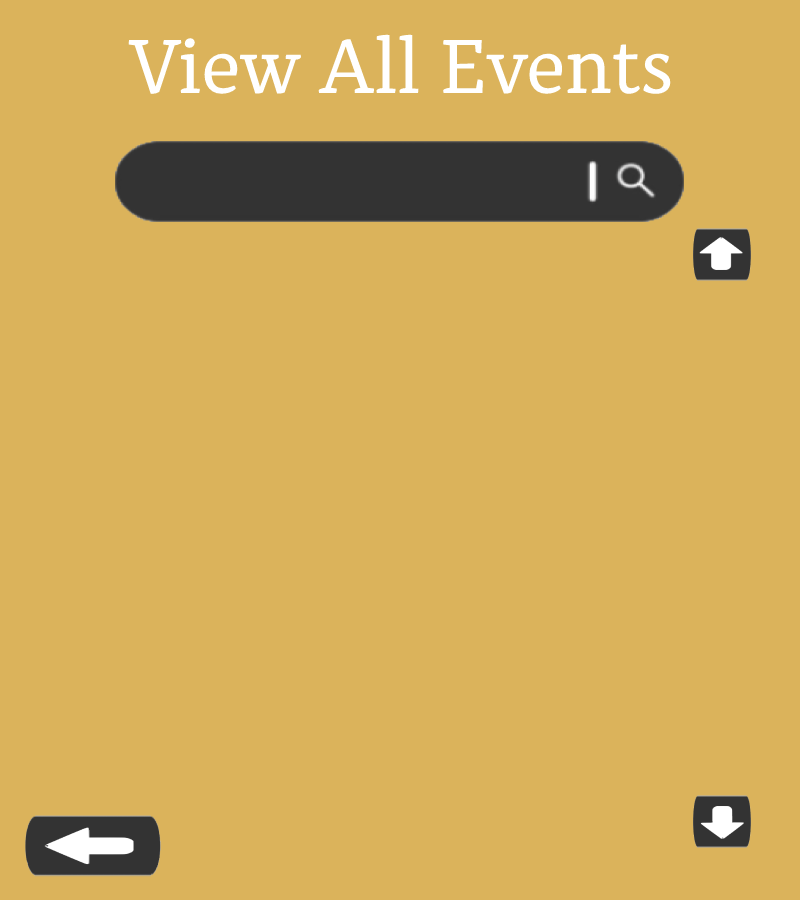
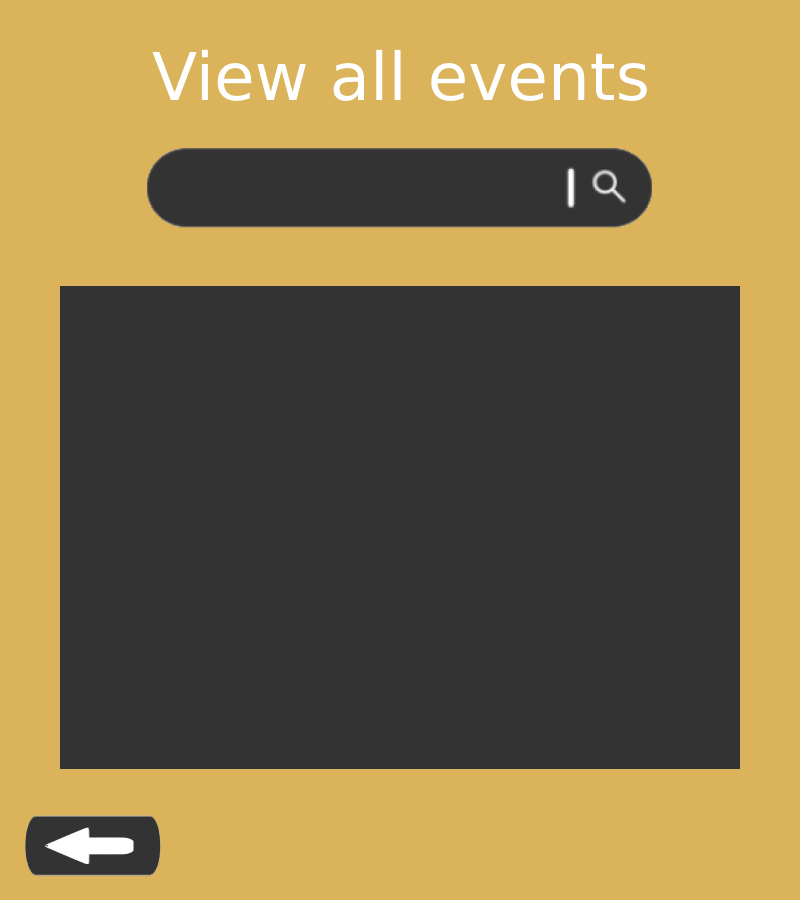
Modify view all events page

diff --git a/historyProject/historyProject/Front-End/CPP Files/startProgram.cpp b/historyProject/historyProject/Front-End/CPP Files/startProgram.cpp
@@ -1,6 +1,7 @@
 #include "../header Files/startProgram.h"
 #include "../../Back-End/header Files/registerForm.h"
 #include "../../Back-End/header Files/loginForm.h"
+#include "../../Back-End/header Files/viewAllEventsPage.h"
 
 void switchPages(sf::RenderWindow& window, sf::Event& userEvent, sf::Texture& currentPageTexture, CURRENT_PAGE& pageFlag,
     SELECTED_TEXT_BOX& textBoxFlag, NODE* head, std::fstream& userInfo, std::fstream& eventInfo)
@@ -120,6 +121,8 @@ void switchPages(sf::RenderWindow& window, sf::Event& userEvent, sf::Texture& cu
             pageFlag.timelineMenu = false;
             pageFlag.viewAllEvents = true;
             pageFlag.addAnEventMenu = false;
+
+            showEvent(eventInfo, head, textBoxProperties::events, textBoxProperties::eventTitle);
         }
         else if ((userEvent.mouseButton.x >= 25 && userEvent.mouseButton.x <= 160) &&
             (userEvent.mouseButton.y >= 815 && userEvent.mouseButton.y <= 870) && pageFlag.viewAllEvents == true)
@@ -132,6 +135,10 @@ void switchPages(sf::RenderWindow& window, sf::Event& userEvent, sf::Texture& cu
             pageFlag.timelineMenu = true;
             pageFlag.viewAllEvents = false;
             pageFlag.addAnEventMenu = false;
+
+            textBoxProperties::enteredTextForSearchBox = "";
+            textBoxProperties::search.setString(textBoxProperties::enteredTextForSearchBox);
+            
         }
         else if ((userEvent.mouseButton.x >= 20 && userEvent.mouseButton.x <= 172) &&
             (userEvent.mouseButton.y >= 800 && userEvent.mouseButton.y <= 880) && pageFlag.timelineMenu == true)
@@ -160,8 +167,8 @@ void switchPages(sf::RenderWindow& window, sf::Event& userEvent, sf::Texture& cu
             pageFlag.homeMenu = false;
             pageFlag.viewAllEvents = false;
         }
-        else if (pageFlag.viewAllEvents == true && (userEvent.mouseButton.x >= 115 && userEvent.mouseButton.x <= 590) &&
-        (userEvent.mouseButton.y >= 140 && userEvent.mouseButton.y <= 220))
+        else if (pageFlag.viewAllEvents == true && (userEvent.mouseButton.x >= 150 && userEvent.mouseButton.x <= 570) &&
+        (userEvent.mouseButton.y >= 150 && userEvent.mouseButton.y <= 230))
         {
             textBoxFlag.titleTextBox = false;
             textBoxFlag.dateTextBox = false;
@@ -169,7 +176,7 @@ void switchPages(sf::RenderWindow& window, sf::Event& userEvent, sf::Texture& cu
             textBoxFlag.username = false;
             textBoxFlag.password = false;
             textBoxFlag.search = true;
-            textBoxProperties::search.setPosition(150, 160);
+            textBoxProperties::search.setPosition(170, 170);
 
         }
         else if (pageFlag.addAnEventMenu == true && (userEvent.mouseButton.x >= 120 && userEvent.mouseButton.x <= 690) &&
@@ -402,6 +409,10 @@ void startProgram(NODE* head)
     SELECTED_TEXT_BOX textBoxFlag;
     std::fstream userInfo;
     std::fstream eventInfo;
+    size_t setCounter = 0, posY = 170;
+    sf::Text item1;
+    sf::Text item2;
+    sf::Text item3;
 
     sf::RenderWindow window(sf::VideoMode(800, 900), "Historya", sf::Style::Close);
     window.setFramerateLimit(30);
@@ -414,6 +425,7 @@ void startProgram(NODE* head)
 
     sf::Font font;
     font.loadFromFile("images and fonts/alkesregular.ttf");
+
 
     textBoxProperties::titleBox.setFont(font);
     textBoxProperties::dateBox.setFont(font);
@@ -445,7 +457,10 @@ void startProgram(NODE* head)
             selectTextBox(window, userEvent, textBoxFlag);
         }
 
+
         window.clear();
+
+
 
         window.draw(*currentPageSprite);
         window.draw(textBoxProperties::titleBox);
@@ -454,6 +469,25 @@ void startProgram(NODE* head)
         window.draw(textBoxProperties::username);
         window.draw(textBoxProperties::password);
         window.draw(textBoxProperties::search);
+
+        if (pageFlag.viewAllEvents)
+        {
+            for (size_t i = setCounter + 1; i < setCounter + 5; i++)
+            {
+                textBoxProperties::events[i].setFont(font);
+                textBoxProperties::events[i].setCharacterSize(30);
+                textBoxProperties::events[i].setFillColor(sf::Color::White);
+                textBoxProperties::events[i].setPosition(115, posY * (i + 1));
+            }
+
+            item1 = textBoxProperties::events[setCounter + 1];
+            item2 = textBoxProperties::events[setCounter + 2];
+            item3 = textBoxProperties::events[setCounter + 3];
+
+            window.draw(item1);
+            window.draw(item2);
+            window.draw(item3);
+        }
 
         window.display();
     }

diff --git a/historyProject/historyProject/Back-End/CPP Files/viewAllEventsPage.cpp b/historyProject/historyProject/Back-End/CPP Files/viewAllEventsPage.cpp
@@ -1,0 +1,90 @@
+#include "../Header Files/viewAllEventsPage.h"
+#include "../Header Files/timelineMode.h"
+#include "../../Front-End/Header Files/startProgram.h"
+
+void writeDataToNode(NODE*& head, std::string& title, std::string& date, std::string& description)
+{
+	NODE* tail = getTail(head);
+
+	newElement(tail, title, date, description);
+}
+
+void extractInfo(std::string line, NODE*& head)
+{
+	std::string title, date, description;
+	int i = 0;
+
+	for (; i < line.size(); i++)
+	{
+		if (line[i] != '#')
+		{
+			title += line[i];
+		}
+		else
+		{
+			break;
+		}
+	}
+
+	i++;
+
+	for (; i < line.size(); i++)
+	{
+		if (line[i] != '#')
+		{
+			date += line[i];
+		}
+		else
+		{
+			break;
+		}
+	}
+
+	i++;
+
+	for (; i < line.size(); i++)
+	{
+		if (line[i] != '#')
+		{
+			description += line[i];
+		}
+		else
+		{
+			break;
+		}
+	}
+
+	writeDataToNode(head, title, date, description);
+}
+
+void setDataToVectors(NODE* head, std::vector<sf::Text>& events, std::vector<std::string>& eventTitles)
+{
+	sf::Text text;
+	std::string title;
+
+	while (head->next != NULL)
+	{
+		title = head->title + " - " + head->date;
+		eventTitles.push_back(title);
+		text.setString(title);
+		events.push_back(text);
+		head = head->next;
+	}
+}
+
+void showEvent(std::fstream& eventInfo, NODE*& head, std::vector<sf::Text>& events, std::vector<std::string>& eventTitles)
+{
+	eventInfo.open("eventInfo.txt", std::ios::in | std::ios::app);
+
+	if (eventInfo.is_open())
+	{
+		std::string line;
+		while (std::getline(eventInfo, line))
+		{
+			extractInfo(line, head);
+		}
+		eventInfo.close();
+	}
+	setDataToVectors(head, events, eventTitles);
+	display(head);
+}

diff --git a/historyProject/historyProject/Back-End/CPP Files/timelineMode.cpp b/historyProject/historyProject/Back-End/CPP Files/timelineMode.cpp
@@ -12,7 +12,6 @@ void newElement(NODE*& head, std::string& title, std::string& date, std::string&
 	head->next = new NODE(title, date, description);
 }
 
-
 void display(NODE* head)
 {
 	while (head != NULL)
@@ -42,6 +41,7 @@ void writeDataIntoAFile(NODE*& head, std::fstream& eventInfo)
 
 	head = head->next;
 
+
 	while (head != NULL)
 	{
 		eventInfo << head->title << "#" << head->date << "#" << head->description << "#" << "\n";
@@ -60,4 +60,23 @@ void setDataToNodes(NODE*& head, std::string& title, std::string& date, std::str
 	display(head);
 
 	writeDataIntoAFile(head, eventInfo);
+}
+
+void getDataFromFile(NODE*& head, std::fstream& eventInfo)
+{
+	eventInfo.open("eventInfo.txt", std::ios::out);
+	if (!eventInfo.is_open())
+	{
+		std::cout << "Can not open userInfo.txt";
+	}
+
+	head = head->next;
+
+	while (head != NULL)
+	{
+		eventInfo << head->title << "#" << head->date << "#" << head->description << "#" << "\n";
+		head = head->next;
+	}
+
+	eventInfo.close();
 }

diff --git a/historyProject/historyProject/Front-End/Header Files/startProgram.h b/historyProject/historyProject/Front-End/Header Files/startProgram.h
@@ -1,7 +1,8 @@
 #pragma once
+#include "../../Back-End/Header Files/timelineMode.h"
 #include <SFML/Graphics.hpp>
 #include <iostream>
-#include "../../Back-End/Header Files/timelineMode.h"
+#include <vector>
 
 struct CURRENT_PAGE
 {
@@ -31,6 +32,7 @@ namespace textBoxProperties
     static sf::Text username;
     static sf::Text password;
     static sf::Text search;
+    static std::vector<sf::Text> events;
 
     static std::string enteredTextForTitleBox = "";
     static std::string enteredTextForDateBox = "";
@@ -38,6 +40,7 @@ namespace textBoxProperties
     static std::string enteredTextForUsernameBox = "";
     static std::string enteredTextForPasswordBox = "";
     static std::string enteredTextForSearchBox = "";
+    static std::vector<std::string> eventTitle;
 }
 
 void startProgram(NODE* head);

diff --git a/historyProject/historyProject/Back-End/Header Files/timelineMode.h b/historyProject/historyProject/Back-End/Header Files/timelineMode.h
@@ -17,4 +17,8 @@ struct NODE
 
 void setDataToNodes(NODE*& head, std::string& title, std::string& date, std::string& description, std::fstream& eventInfo);
 
-//void newElement(NODE* head, std::string& title, std::string& date, std::string& description);
+void newElement(NODE*& head, std::string& title, std::string& date, std::string& description);
+
+NODE* getTail(NODE* head);
+
+void display(NODE* head);

diff --git a/historyProject/historyProject/Back-End/Header Files/viewAllEventsPage.h b/historyProject/historyProject/Back-End/Header Files/viewAllEventsPage.h
@@ -1,0 +1,8 @@
+#pragma once
+#include "timelineMode.h"
+#include <SFML/Graphics.hpp>
+#include <iostream>
+#include <vector>
+#include <fstream>
+
+void showEvent(std::fstream& userInfo, NODE*& head, std::vector<sf::Text>& events, std::vector<std::string>& eventTitles);

diff --git a/historyProject/historyProject/historyProject.cpp b/historyProject/historyProject/historyProject.cpp
@@ -1,5 +1,3 @@
-#include <iostream>
-#include <SFML/Graphics.hpp>
 #include "Front-End/header Files/startProgram.h"
 #include "Back-End/Header Files/timelineMode.h"
 
